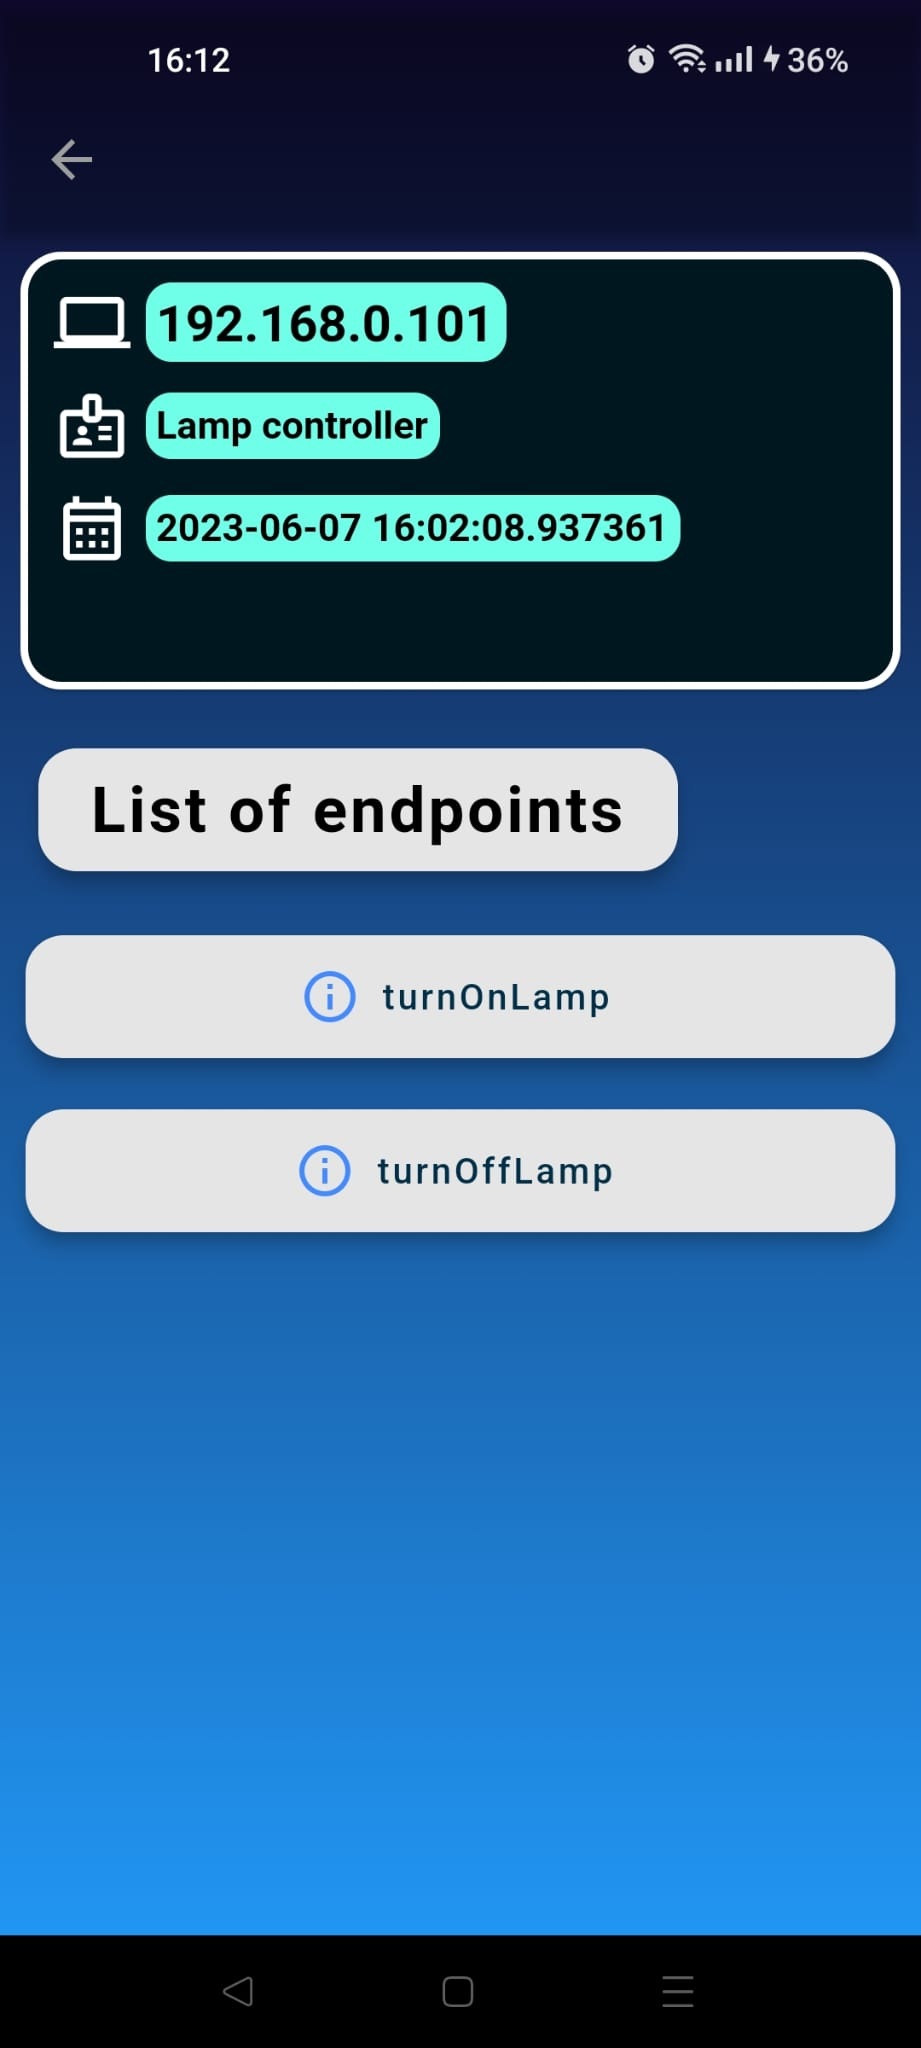
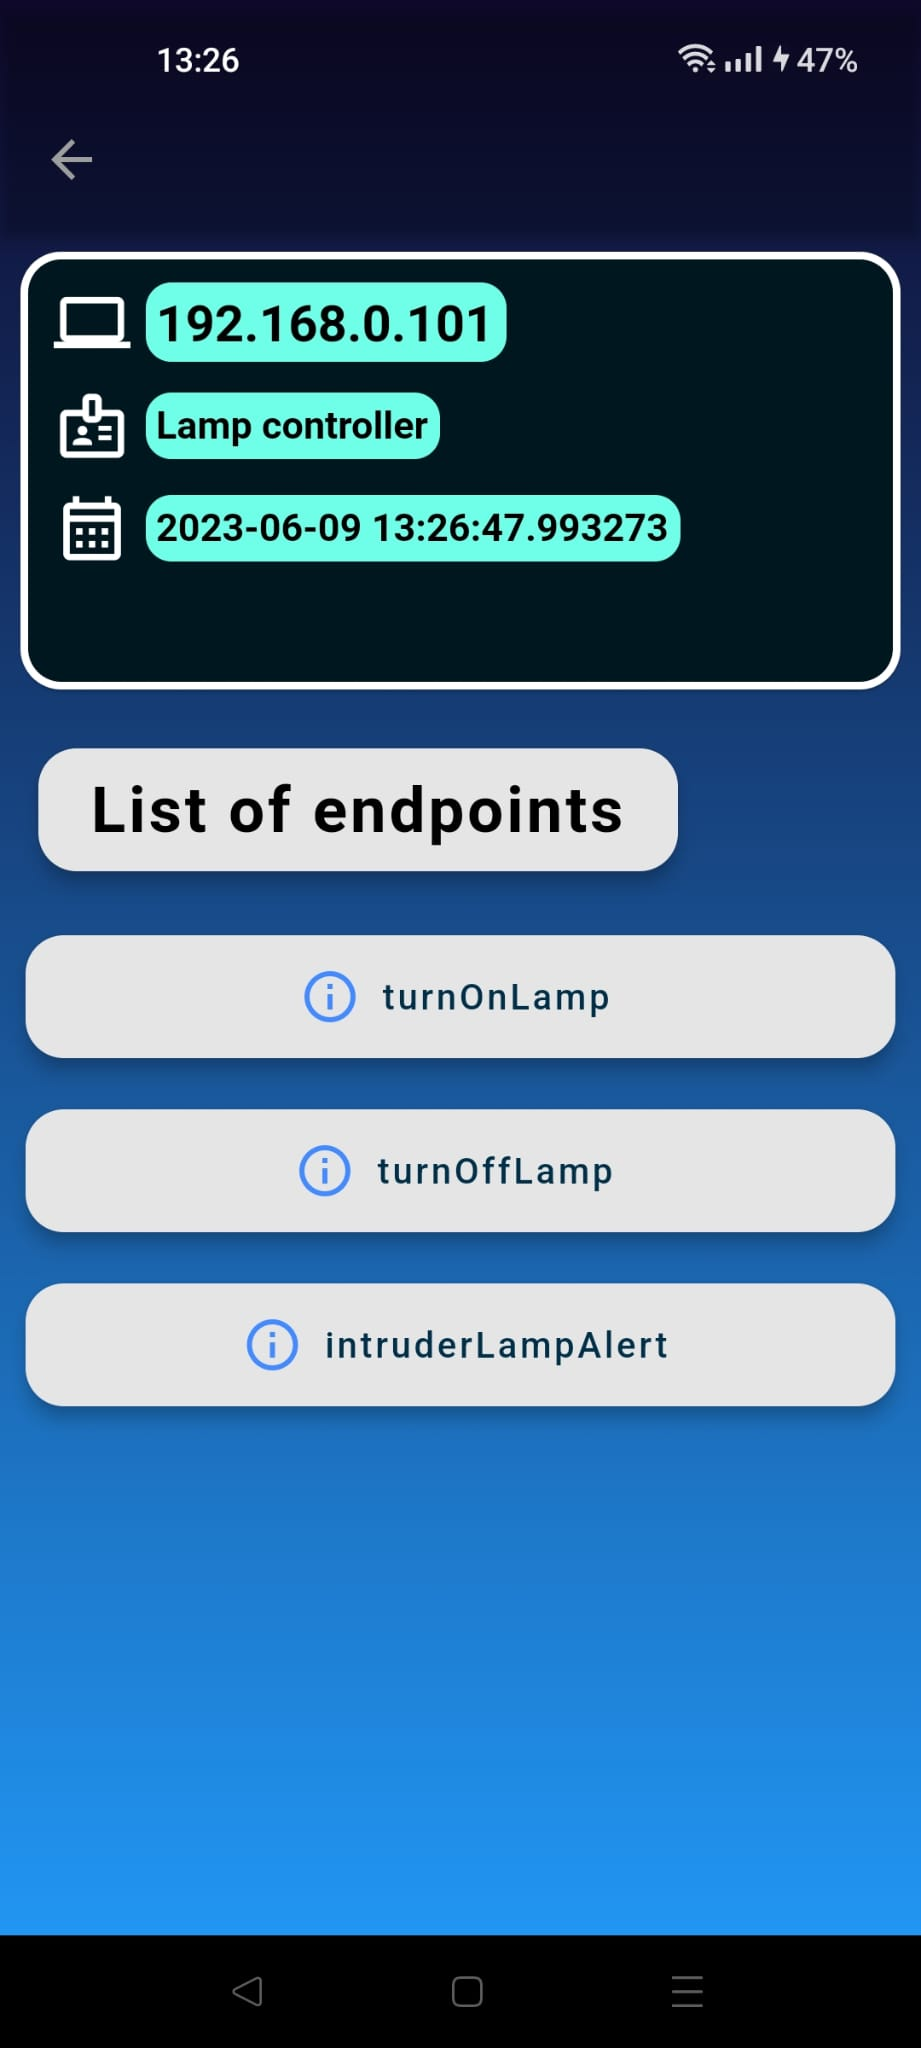
Modified movement sensor, added report description in latex

diff --git a/home_app/lib/routes/report.dart b/home_app/lib/routes/report.dart
@@ -48,7 +48,7 @@ class _ReportRouteState extends State<ReportRoute> {
         appBar: AppBar(
           backgroundColor: Colors.transparent,
           centerTitle: true,
-          title: const Text('Generate report'),
+          title: const Text('Reports'),
         ),
         body: SingleChildScrollView(
           child: Column(

diff --git a/documentatie/chapters/chapter3.tex b/documentatie/chapters/chapter3.tex
@@ -78,6 +78,8 @@ Este recomandat ca, atunci când utilizatorul pleacă din incinta în care este 
 
 După ce este activat, utilizatorului îi este făcut prezent acest fapt prin schimbarea culorii de background. Valoarea acestui buton este salvată în baza de date Hive, împreună cu data și ora la care a fost schimbată. Aceasta din urmă va fi folosită la filtrarea alarmelor false.
 
+Senzorii dinamici pot fi configurați astfel încât să se folosească de această valoare și din acest motiv, la fiecare schimbare a acestui buton, valoarea va fi postată pe ruta \textbf{https://andr3w.ddns.net/secure}, urmând să fie disponibilă tuturor device-urilor pentru a o putea citi.
+
 \subsection{Butonul de refresh}
 
 Funcționalitatea sa este intuitivă, întrucât apăsarea lui rezultă în re-împrospătarea valorilor din aplicație cu cele mai recente citiri ale tuturor senzorilor sistemului. Deoarece tot backend-ul este hostat pe un procesor cu un singur nucleu, am decis să implementez o metodă de \emph{caching} a datelor pentru sesiunea curentă. În acest mod salvăm serverul de la multe request-uri și economisim datele mobile.
@@ -133,6 +135,39 @@ După cum se poate observa, avem afișate datele despre senzor într-o manieră 
 
 Fiecare rută pe care o apelăm va instrui senzorul să execute diferite funcționalități care pot fi deduse din numele afișat pe buton.
 
+\textbf{IntruderLampAlert} desemnează cum reacționează acest modul atunci când modul de securitate este activat și senzorul de mișcare emite un ”1” logic.
+
+\section{Pagina de genereare de rapoarte}
+
+În cazul în care utilizatorul este o victimă a unui jaf sau unei intruziuni în casă, este important să acționeze în mod corespunzător. Primul pas este să își asigure siguranța personală și să sune imediat la serviciile de urgență sau la poliție, încercând să nu intre în contact cu posibilii infractori sau să manipuleze evidențele rămase la fața locului, pentru a nu distruge potențiale probe. După anunțarea autorităților, trebuie făcută o inventariere a obiectelor pierdute și să fie extrase cât mai multe informații din ziua respectivă legate de incident.
+
+Aplicația din această soluție ajută utlizatorul în cazul unui astfel de eveniment prin colectarea tuturor datelor senzorilor din casă, expunându-le în formă de PDF gata să fie oferite autorităților. Trebuie menționat faptul că senzorii au fost plasați specific în holul de la intrarea în apartamentul meu, pozitionați astfel încât orice persoană care intră va modifica starea modulelor.
+
+Interfața (Figura 3.9.a) este alcătuită din cele două câmpuri ce permit introducerea timpului de început și cel de sfârșit. Acestea vor fi folosite de către server pentru a filtra toate înregistrările senzorilor, luându-le doar pe cele ce se încadrează în intervalul specificat. Cele două valori trebuie neapărat setate, întrucât butonul de \textbf{Generate report} nu va funcționa fiindcă nu știe unul din capetele intervalului sau chiar ambele. Odată apăsat, va trimite un POST request la stația de bază care îi va răspunde cu datele aferente. Utilizatorul este notificat de terminarea procesului printr-un pop-up în josul ecranului ce oferă și folderul în care a fost salvat.
+
+Cu ajutorul librăriei \textbf{pdf} din cadrul SDK-ului Flutter, am reușit generarea documentului (Figura 3.9.b). Pe post de header, am specificat intervalul din care au fost extrase informațiile senzorilor și data la care a fost creat acest document. Footer-ul conține numele aplicației și deținătorul drepturilor licenței. În centrul atenției este un tabel ce conține, în ordine, numărul curent al înregistrării, adresa, data, ID-ul, tipul și valoarea senzorului. Acesta este extins pe multiple foi, cifra din partea de jos al ecranului desemnând numărul curent al paginii. Pentru raportul acesta avem un număr de 300 de înregistrări preluate în decursul a 5 minute.
+
+Datele acestui document sunt valoroase și pot ajuta foarte mult investigatorii, crescând astfel șansele de a prinde intrușii. Asigurând proprietarii ce folosesc acest sistem cu un raport plin de informații, soluția de smart home propusă joacă un rol important în creșterea securității utilizatorului.
+
+\begin{figure}[h]
+	\centering
+	\begin{subfigure}{0.43\textwidth}
+		\centering
+		\includegraphics[width=\textwidth]{9}
+		\caption{Interfața paginii}
+		\label{fig:9}
+	\end{subfigure}
+	\hfill
+	\begin{subfigure}{0.43\textwidth}
+		\centering
+		\includegraphics[width=\textwidth]{10}
+		\caption{PDF-ul generat}
+		\label{fig:10}
+	\end{subfigure}
+	\caption{}
+	\label{fig:all4}
+\end{figure}
+\break
 
 \section{Senzori statici}
 
